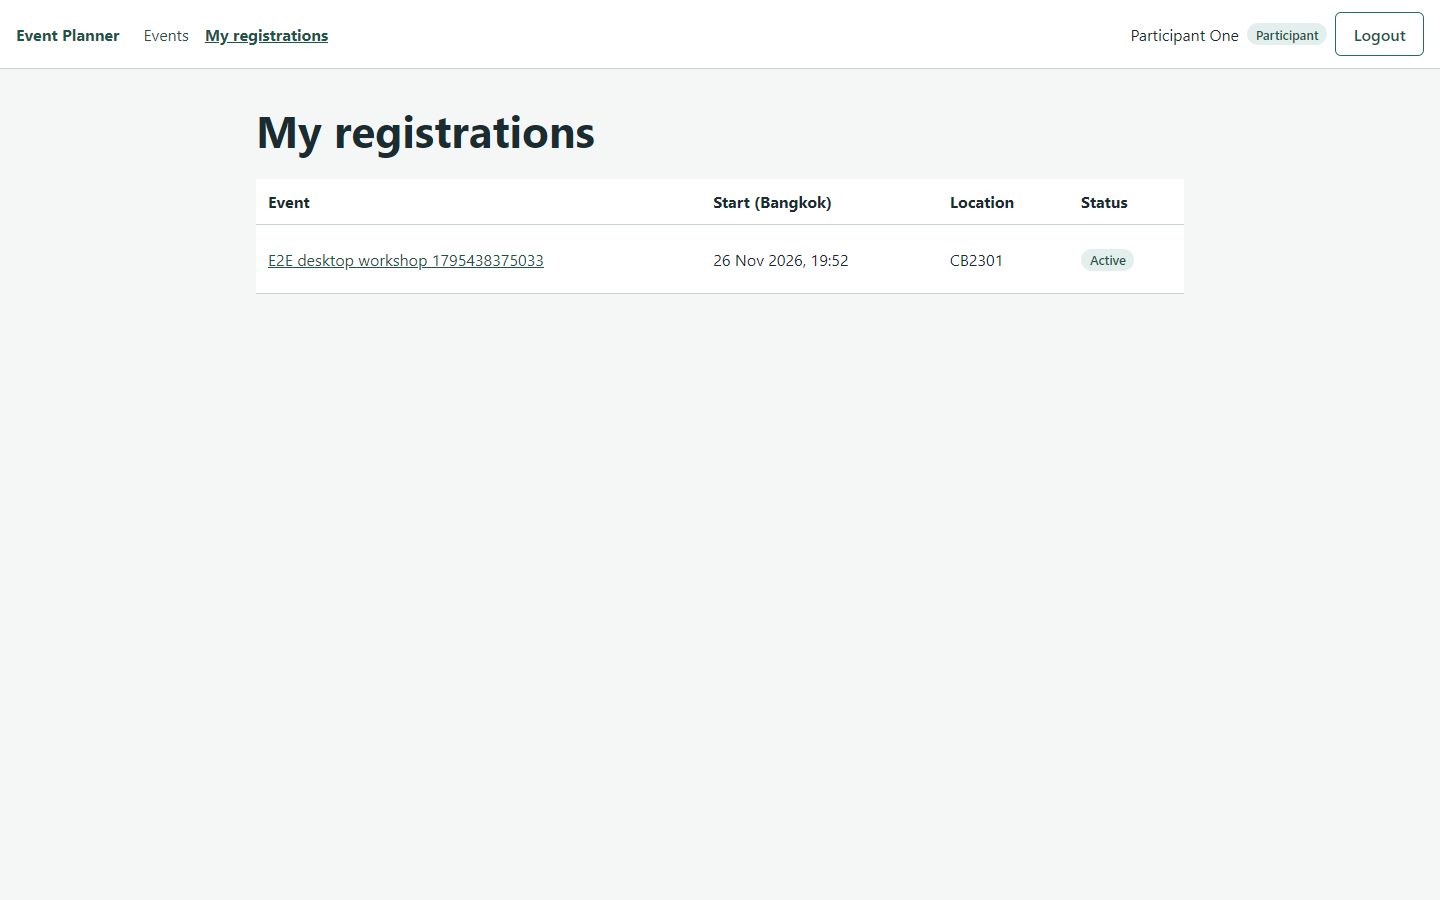
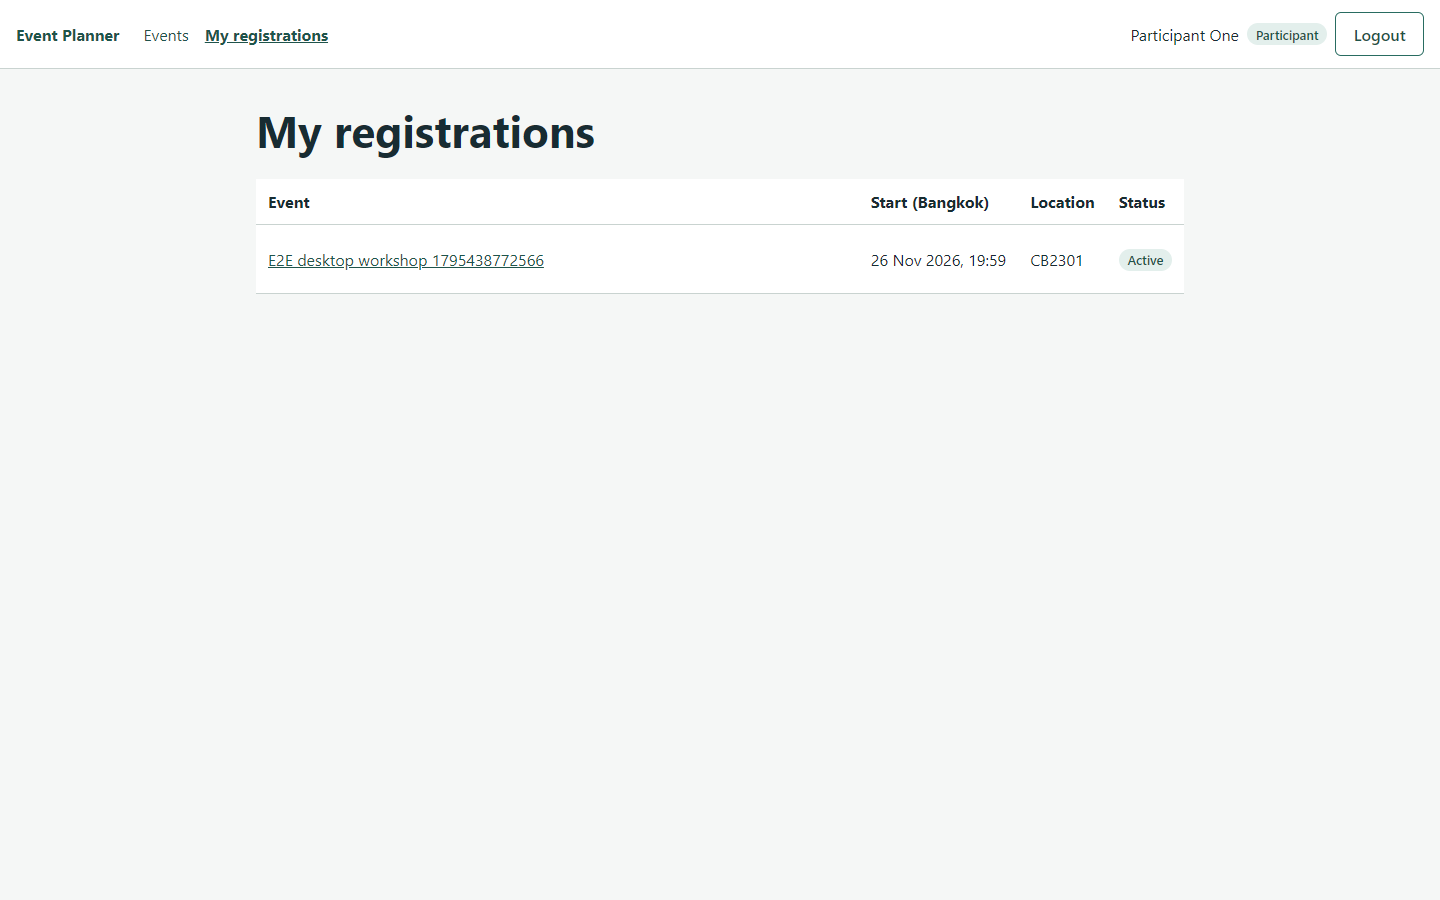
fix: hide stale draft message after reload (#45), keep badges on one line (#46)

Changed region(s): [[0.5, 0.28, 0.8125, 0.3111], [0.5, 0.2178, 0.8125, 0.2489], [0.3438, 0.28, 0.375, 0.3111]]

diff --git a/client/src/events/EventPages.tsx b/client/src/events/EventPages.tsx
@@ -53,11 +53,15 @@ export function EventDetailPage({ organizer = false }: { organizer?: boolean }) 
   useEffect(() => {
     let active = true;
     setEvent(null); setLoading(true); setError(''); setConfirm(false); setBusy(false);
-    setSuccess(location.state?.saved ? 'Event saved as draft' : '');
+    setSuccess('');
     apiFetch<EventRecord>(`/api/events/${id}`).then((data) => {
       if (!active) return;
       if (organizer && data.organizer.id !== user?.id) setError('Event not found');
-      else setEvent(data);
+      else {
+        setEvent(data);
+        // #45: history state survives a reload, so only confirm the save while the event is still a draft.
+        if (location.state?.saved && data.status === 'DRAFT') setSuccess('Event saved as draft');
+      }
     }).catch((e) => { if (active) setError(e instanceof ApiError && e.status === 404 ? 'Event not found' : errorMessage(e)); })
       .finally(() => { if (active) setLoading(false); });
     return () => { active = false; };

diff --git a/client/src/events/events.css b/client/src/events/events.css
@@ -10,6 +10,9 @@
 .event-table { width: 100%; border-collapse: collapse; margin-top: 1rem; background: var(--surface); }
 .event-table th, .event-table td { text-align: left; padding: .75rem; border-bottom: 1px solid var(--border); }
 .event-table a { display: inline-flex; align-items: center; min-height: 44px; }
+/* #46: long unbroken titles wrap inside the title cell; badges, dates and counts stay on one line. */
+.event-table td:first-child { width: 100%; }
+.event-table td:not(:first-child), .event-table th:not(:first-child), .event-table .role-badge { white-space: nowrap; overflow-wrap: normal; }
 .register-panel { margin-top: 1rem; display: grid; gap: .75rem; justify-items: start; }
 .receipt { display: grid; grid-template-columns: max-content 1fr; gap: .5rem 1.25rem; margin: 1rem 0; }
 .receipt dt { font-weight: 600; }
